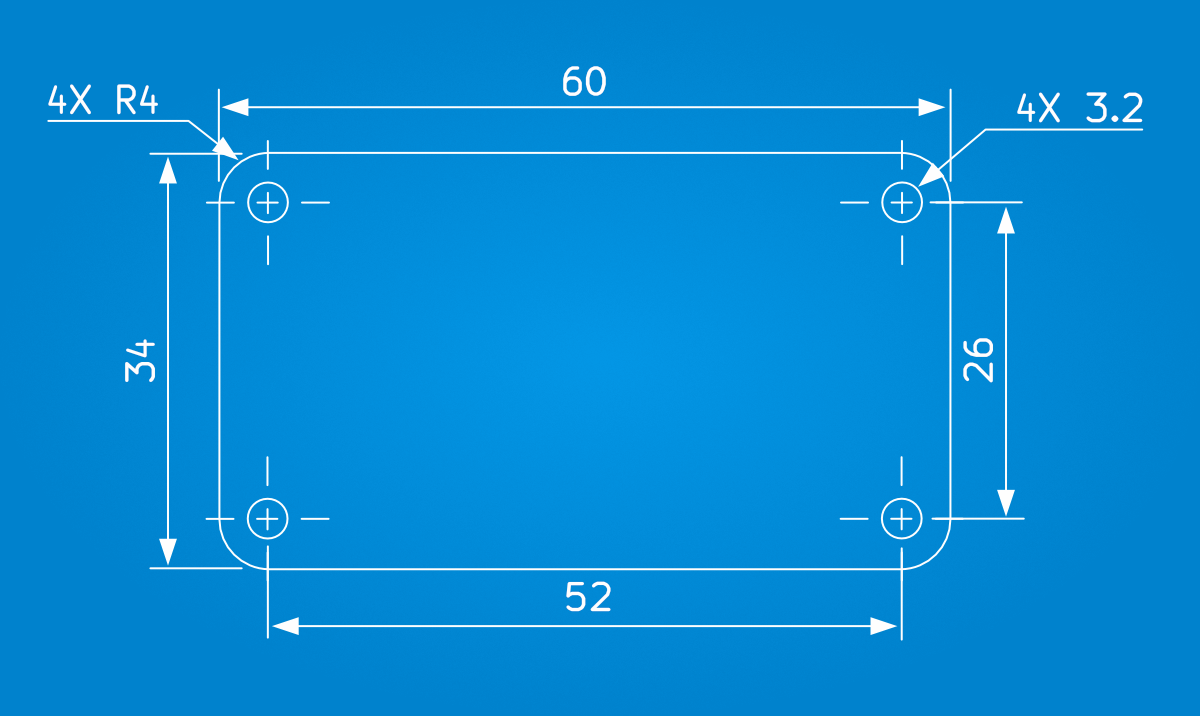
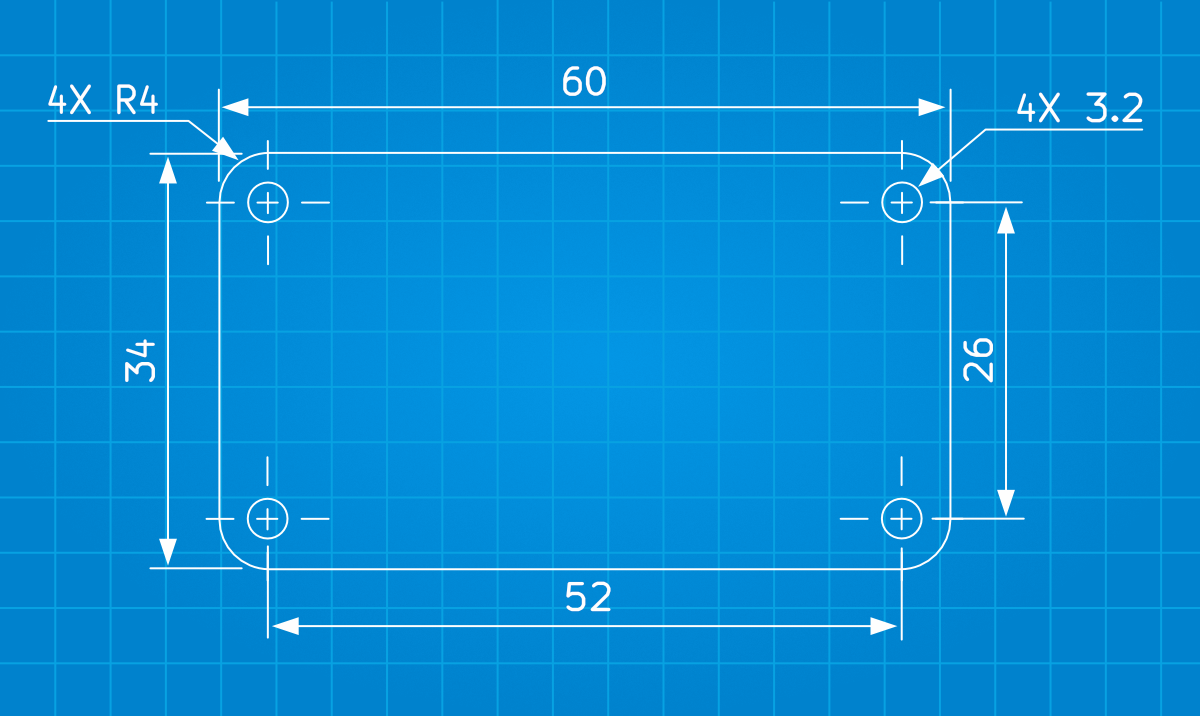
readme

diff --git a/README.md b/README.md
@@ -37,9 +37,16 @@ The connector pinout can be checked against the pads in the pendant.
 
 The PCB can be mounted to the inside of an enclosure using the hex studs of the D‑sub connector. Alternatively, it could be mounted internally with an extension cable.
 
-<img src="./images/drawing.png" width="600" />
+### Cutout
 
-[Cutout DXF](./cad/dsub15_panel_cutout.dxf)
+<img src="./images/cutout_drawing.png" width="800" />
+
+[DXF](./cad/panel_cutout.dxf)
+[PDF](./cad/panel_cutout.pdf)
+
+### Dimensions
+
+<img src="./images/drawing.png" width="600" />
 
 ## PCB components
 
